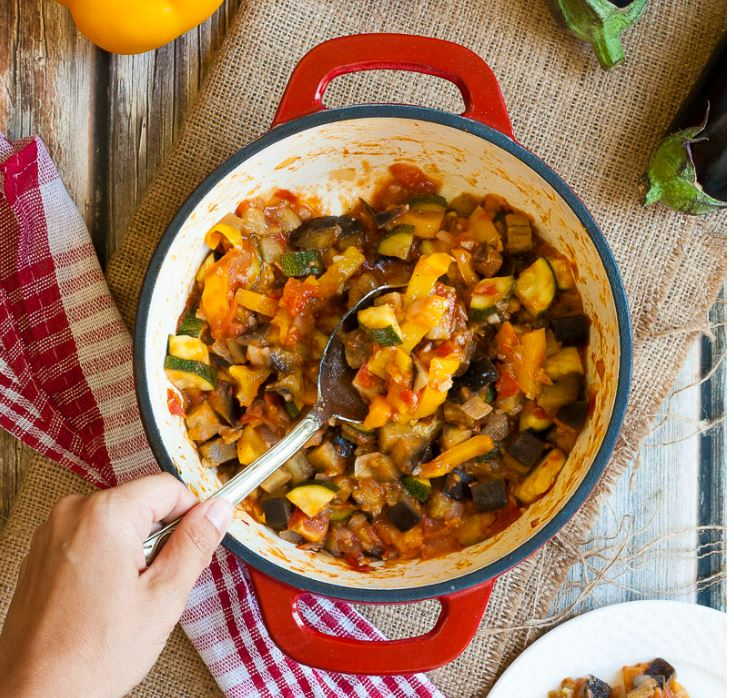
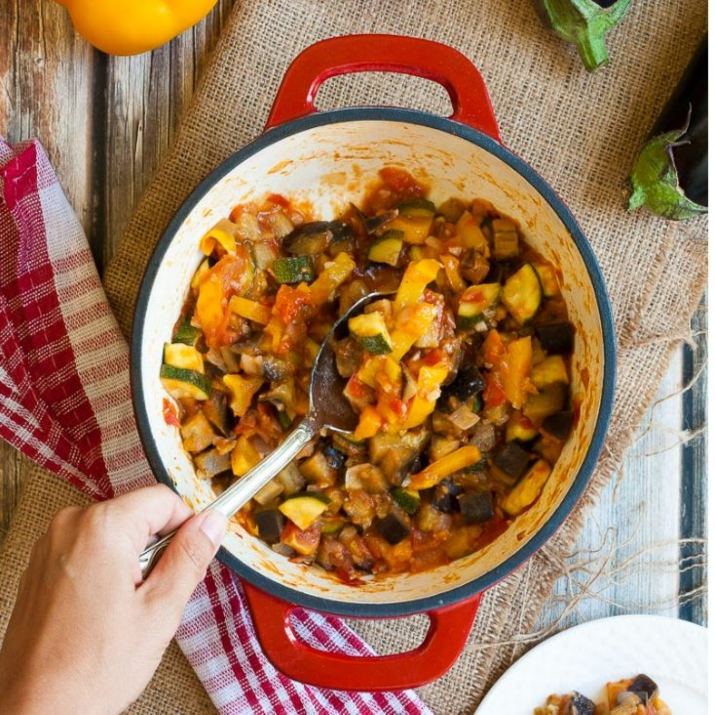
update sizes of images

Changed region(s): [[0.4923, 0.1203, 0.5231, 0.1504], [0.4615, 0.9628, 0.4923, 0.9928]]

diff --git a/server/config/seeds.js b/server/config/seeds.js
@@ -21,7 +21,7 @@ db.once("open", async () => {
       name: "Asparagus Shrimp Pasta",
       description:
         "This is a healthy, hearty, yet elegant recipe that is good enough for guests. It is also very easy and can be made with little notice.",
-      image: "AsparagusShrimpPasta.JPG",
+      image: "AsparagusShrimpPastas.jpg",
       category: categories[0]._id,
       price: 10.99
     },
@@ -54,7 +54,7 @@ db.once("open", async () => {
       category: categories[1]._id,
       description:
         "A Provencal stew filled with the hearty flavors of carrots, fennel, leeks, chickpeas, and thyme.",
-      image: "chicken-bajane-gf.png",
+      image: "chicken-bajane-gf.jpg",
       price: 9.99
     },
     {
@@ -62,7 +62,7 @@ db.once("open", async () => {
       category: categories[1]._id,
       description:
         "You won't miss the gluten in this crust! Topped with cheesy goodness and turkey pepperoni, this pizza is bound to be a hit with the whole family.",
-      image: "gluten-free-pizza.png",
+      image: "gluten-free-pizza.jpg",
       price: 9.99
     },
     {
@@ -70,7 +70,7 @@ db.once("open", async () => {
       category: categories[1]._id,
       description:
         "Instead of a traditional crunchy coating, you use a Cajun spice blend to season the fish and pan-fried it in a pan coated with cooking spray, which helps keep calories in check and is less involved than deep-fat frying.",
-      image: "pan-fried-catfish-with-cajun-tartar-sauce-gf.png",
+      image: "pan-fried-catfish-with-cajun-tartar-sauce-gf.jpg",
       price: 10.99
     },
     {
@@ -78,7 +78,7 @@ db.once("open", async () => {
       category: categories[1]._id,
       description:
         "Ripe, summer tomatoes are juicy and delicious in this pasta dish, with no seeding or peeling necessary.",
-      image: "tomato-basil-sausage-pasta-gf.png",
+      image: "tomato-basil-sausage-pasta-gf.jpg",
       price: 9.99
     },
     {
